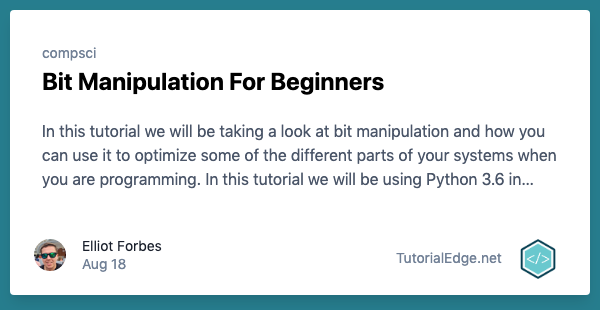
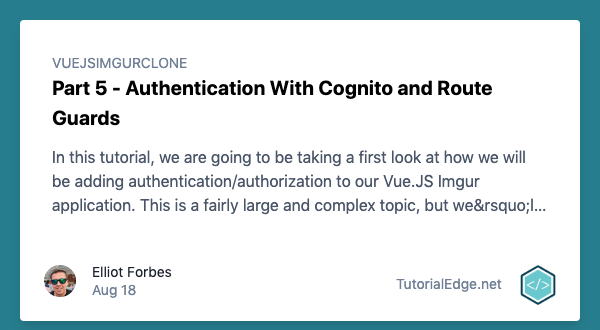
Slight modifications

Changed region(s): [[0.0, 0.029, 0.99, 0.9871], [0.66, 0.8129, 0.84, 0.9]]

diff --git a/api/temp/index.html b/api/temp/index.html
@@ -9,14 +9,13 @@
 <div class="container">
     <div class="max-w-full min-h-8 rounded overflow-hidden shadow-lg bg-white">
         <div class="px-8 py-8">
-            <p class="text-sm text-gray-600 flex items-center">
-                compsci
+            <p class="text-sm text-gray-600 flex items-center uppercase">
+                vuejsimgurclone
             </p>
-            <div class="font-bold h-12 text-2xl mb-2">Bit Manipulation For Beginners</div>
+            <div class="font-bold h-14 text-xl mb-3">Part 5 - Authentication With Cognito and Route Guards</div>
             <div class="line-clamp module">
-                <p class="text-gray-700 text-base">In this tutorial we will be taking a look at bit manipulation and how you can use it to optimize some of the different parts of your systems when you are programming.
- In this tutorial we will be using Python 3.6 in order to demonstrate some of the concepts covered.
- Shift Left By shifting left we are essentially multiplying our original number by 2 * the number of times we shift left.</p>
+                <p class="text-gray-700 text-base">In this tutorial, we are going to be taking a first look at how we will be adding authentication/authorization to our Vue.JS Imgur application. This is a fairly large and complex topic, but we&amp;rsquo;ll be breaking it down into 2 parts.
+In this part, we&amp;rsquo;ll be creating a helper class that will feature everything we need in order to talk to a cognito user pool that we&amp;rsquo;ll be creating again with terraform, and we&amp;rsquo;ll also be adding a few route guards to our application to see how these will protect certain sections of our app from unauthorized users!</p>
             </div>
         </div>
         <div class="flex px-6 mb-4">
@@ -59,7 +58,7 @@ body{
 .container {
     width: 600px;
     height: 300px;
-    padding: 10px;
+    padding: 20px;
 }
 .card {
     z-index: 100;

diff --git a/api/misc/template.html b/api/misc/template.html
@@ -9,10 +9,10 @@
 <div class="container">
     <div class="max-w-full min-h-8 rounded overflow-hidden shadow-lg bg-white">
         <div class="px-8 py-8">
-            <p class="text-sm text-gray-600 flex items-center">
+            <p class="text-sm text-gray-600 flex items-center uppercase">
                 {{series}}
             </p>
-            <div class="font-bold h-12 text-2xl mb-2">{{title}}</div>
+            <div class="font-bold h-14 text-xl mb-3">{{title}}</div>
             <div class="line-clamp module">
                 <p class="text-gray-700 text-base">{{summary}}</p>
             </div>
@@ -57,7 +57,7 @@ body{
 .container {
     width: 600px;
     height: 300px;
-    padding: 10px;
+    padding: 20px;
 }
 .card {
     z-index: 100;

diff --git a/api/server.js b/api/server.js
@@ -42,7 +42,7 @@ async function generateImage() {
     });
     const page = await browser.newPage();
     await page.goto('file://' + __dirname + '/temp/index.html');
-    await page.screenshot({path: 'temp/test.png', clip: {x: 0, y: 0, width: 600, height: 310}});
+    await page.screenshot({path: 'temp/test.png', clip: {x: 0, y: 0, width: 600, height: 330}});
     await browser.close();
 }
 
